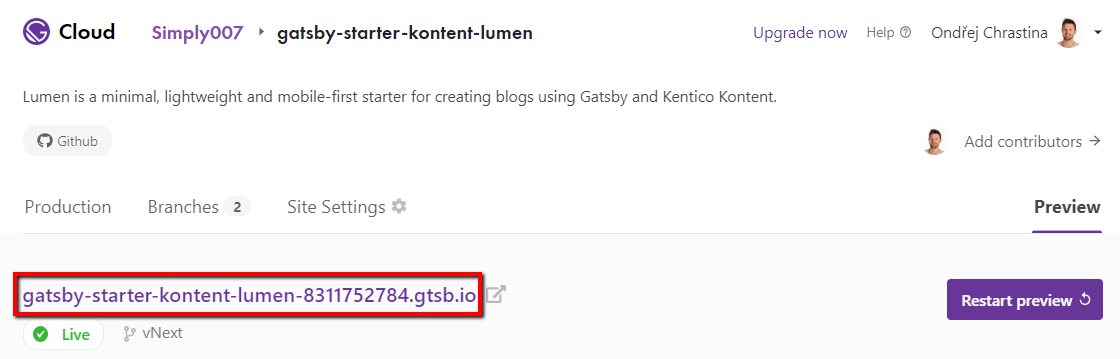
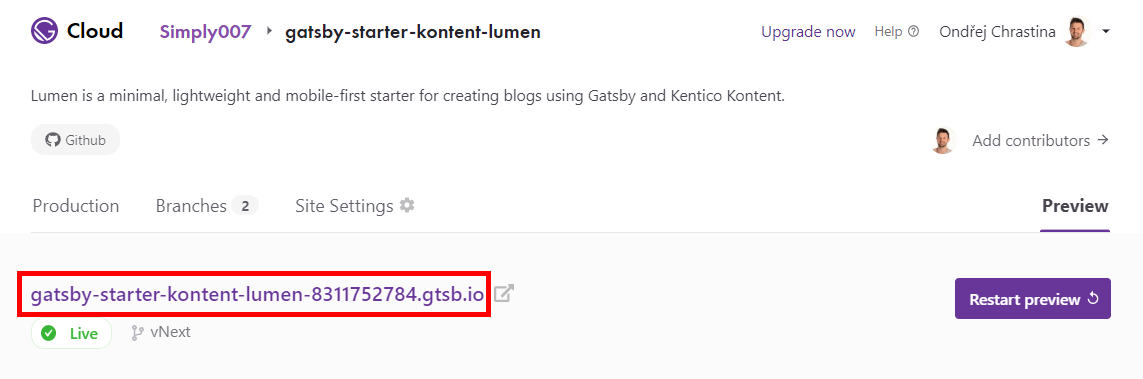
rescreenshot tutorial with unified highlighting style

diff --git a/packages/gatsby-source-kontent/docs/GATSBY-CLOUD.md b/packages/gatsby-source-kontent/docs/GATSBY-CLOUD.md
@@ -36,19 +36,17 @@ Use the **I already have a Gatsby sit** flow to manually integrate your site.
 
 ![Add my own site](./assets/import-flow-start.png)
 
-Pick your Gatsby site from the list of GitHub repositories. You can use the search input to narrow down the list.
+### Select an organization & repository
 
-![Gatsby Cloud Add an instance page](./assets/select-repo.png)
+Pick your Gatsby site from the list of GitHub repositories.
 
 If you don’t see your site, it might be because it belongs to a GitHub organization rather than your personal account. You can connect a new GitHub Organization.
 
 *Note: Repositories must contain one Gatsby project configured at their root to be enabled. Gatsby Cloud works best with Gatsby version 2.20.36 and higher.*
 
-### Select branch and publish directory
-
 You’ll need to select a branch and then indicate the publish directory where the `gatsby-config.js` lives. If you leave the field blank, it defaults to the root of the site.
 
-![Select branch and directory](./assets/select-branch.png)
+![Gatsby Cloud Add an instance page](./assets/select-repo.png)
 
 Once the branch and publish directory are correct, select **Next**.
 
